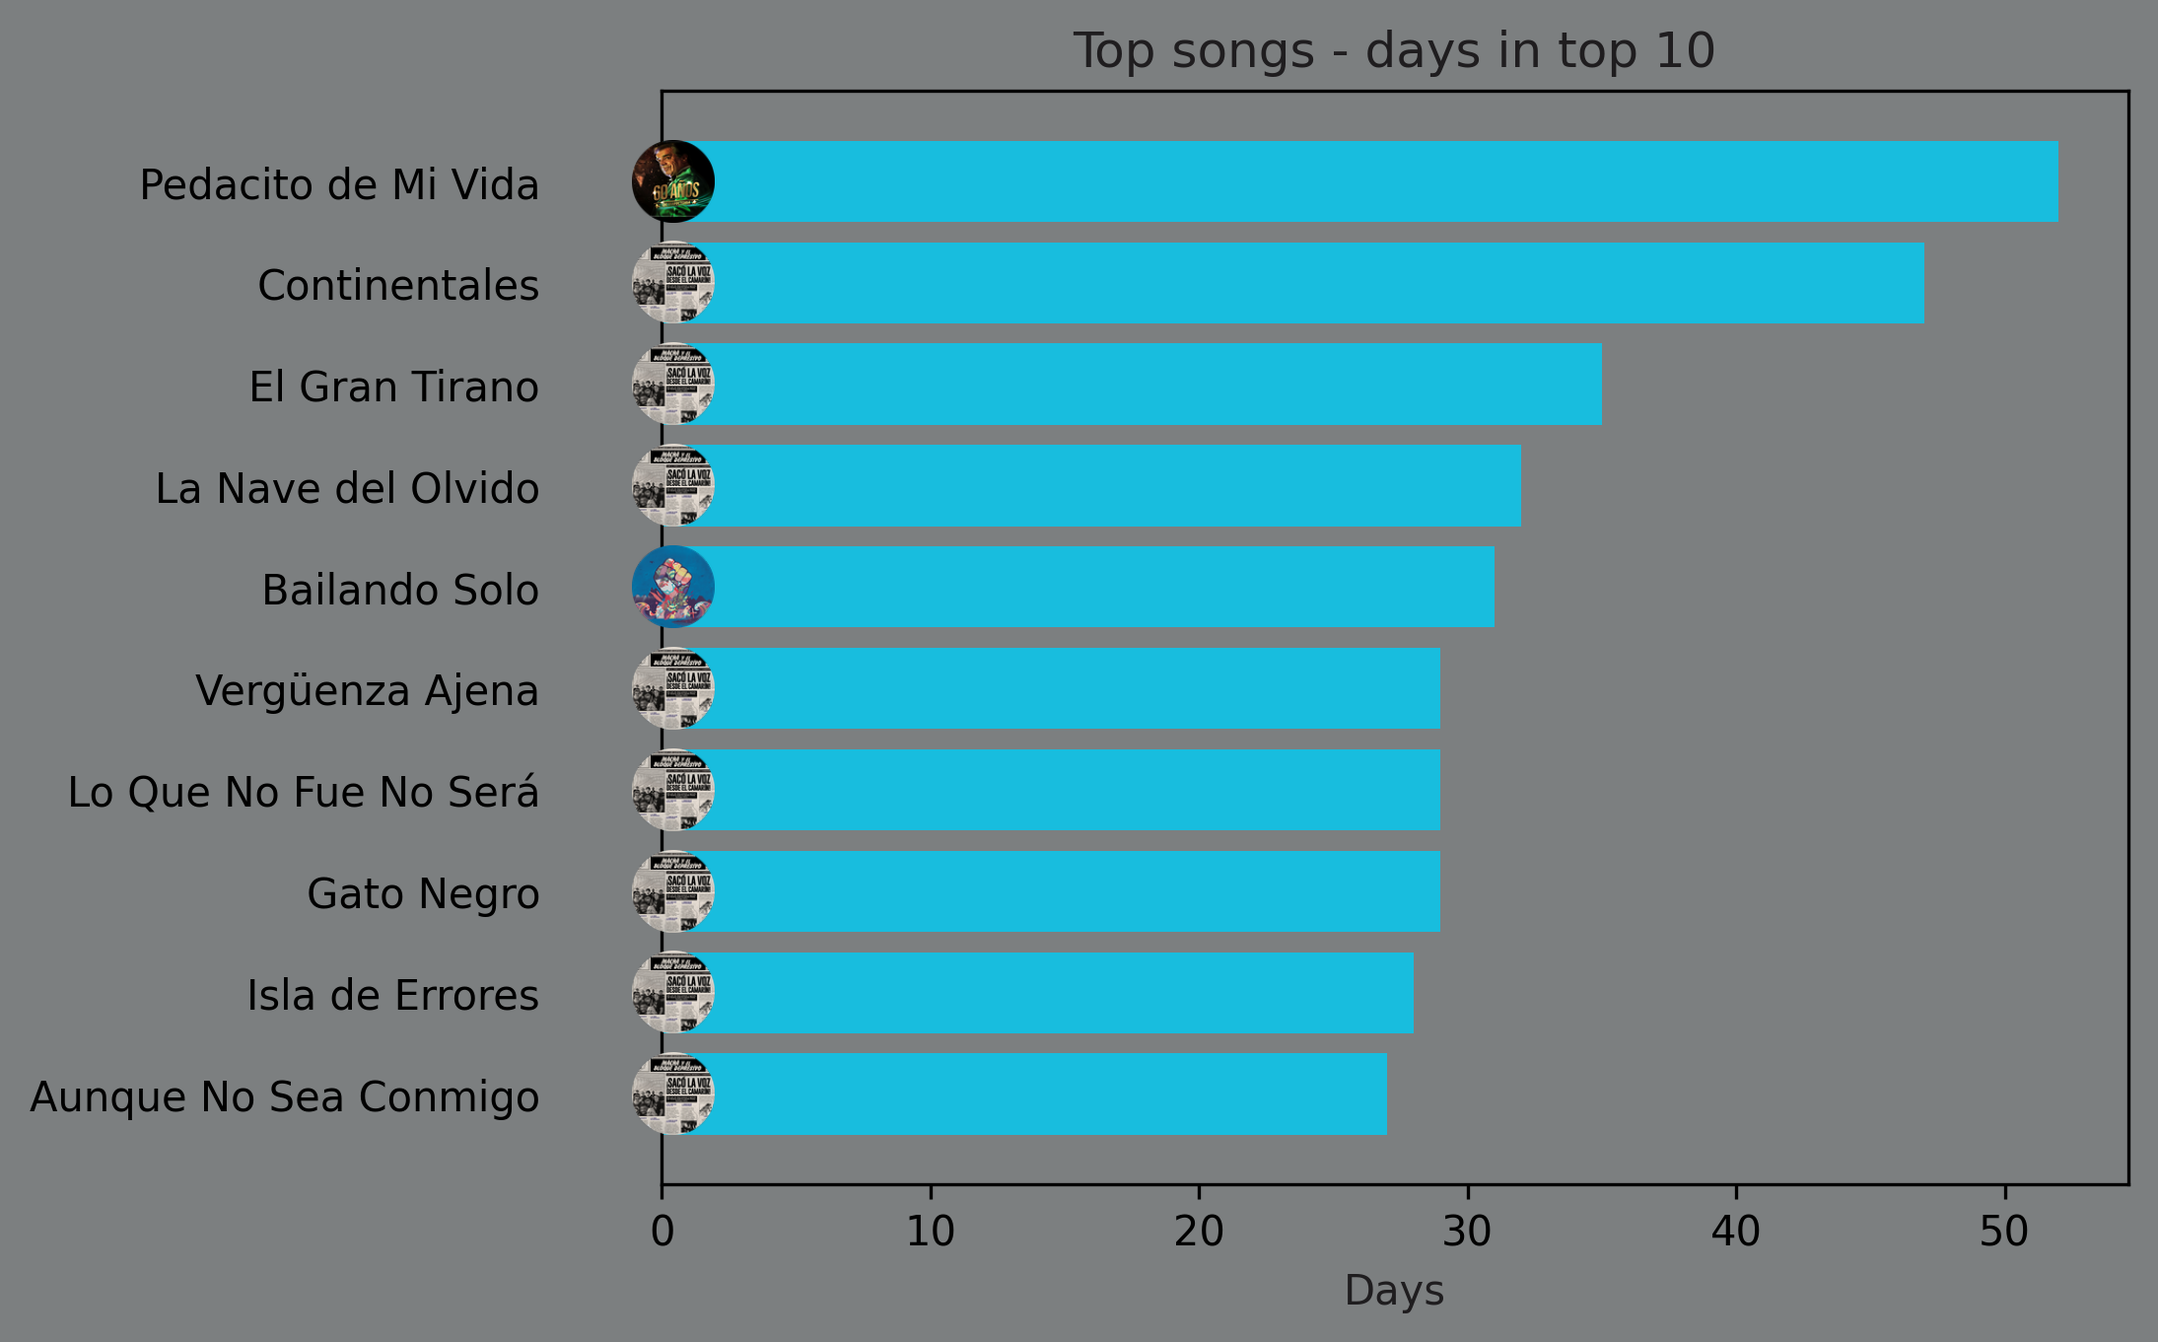
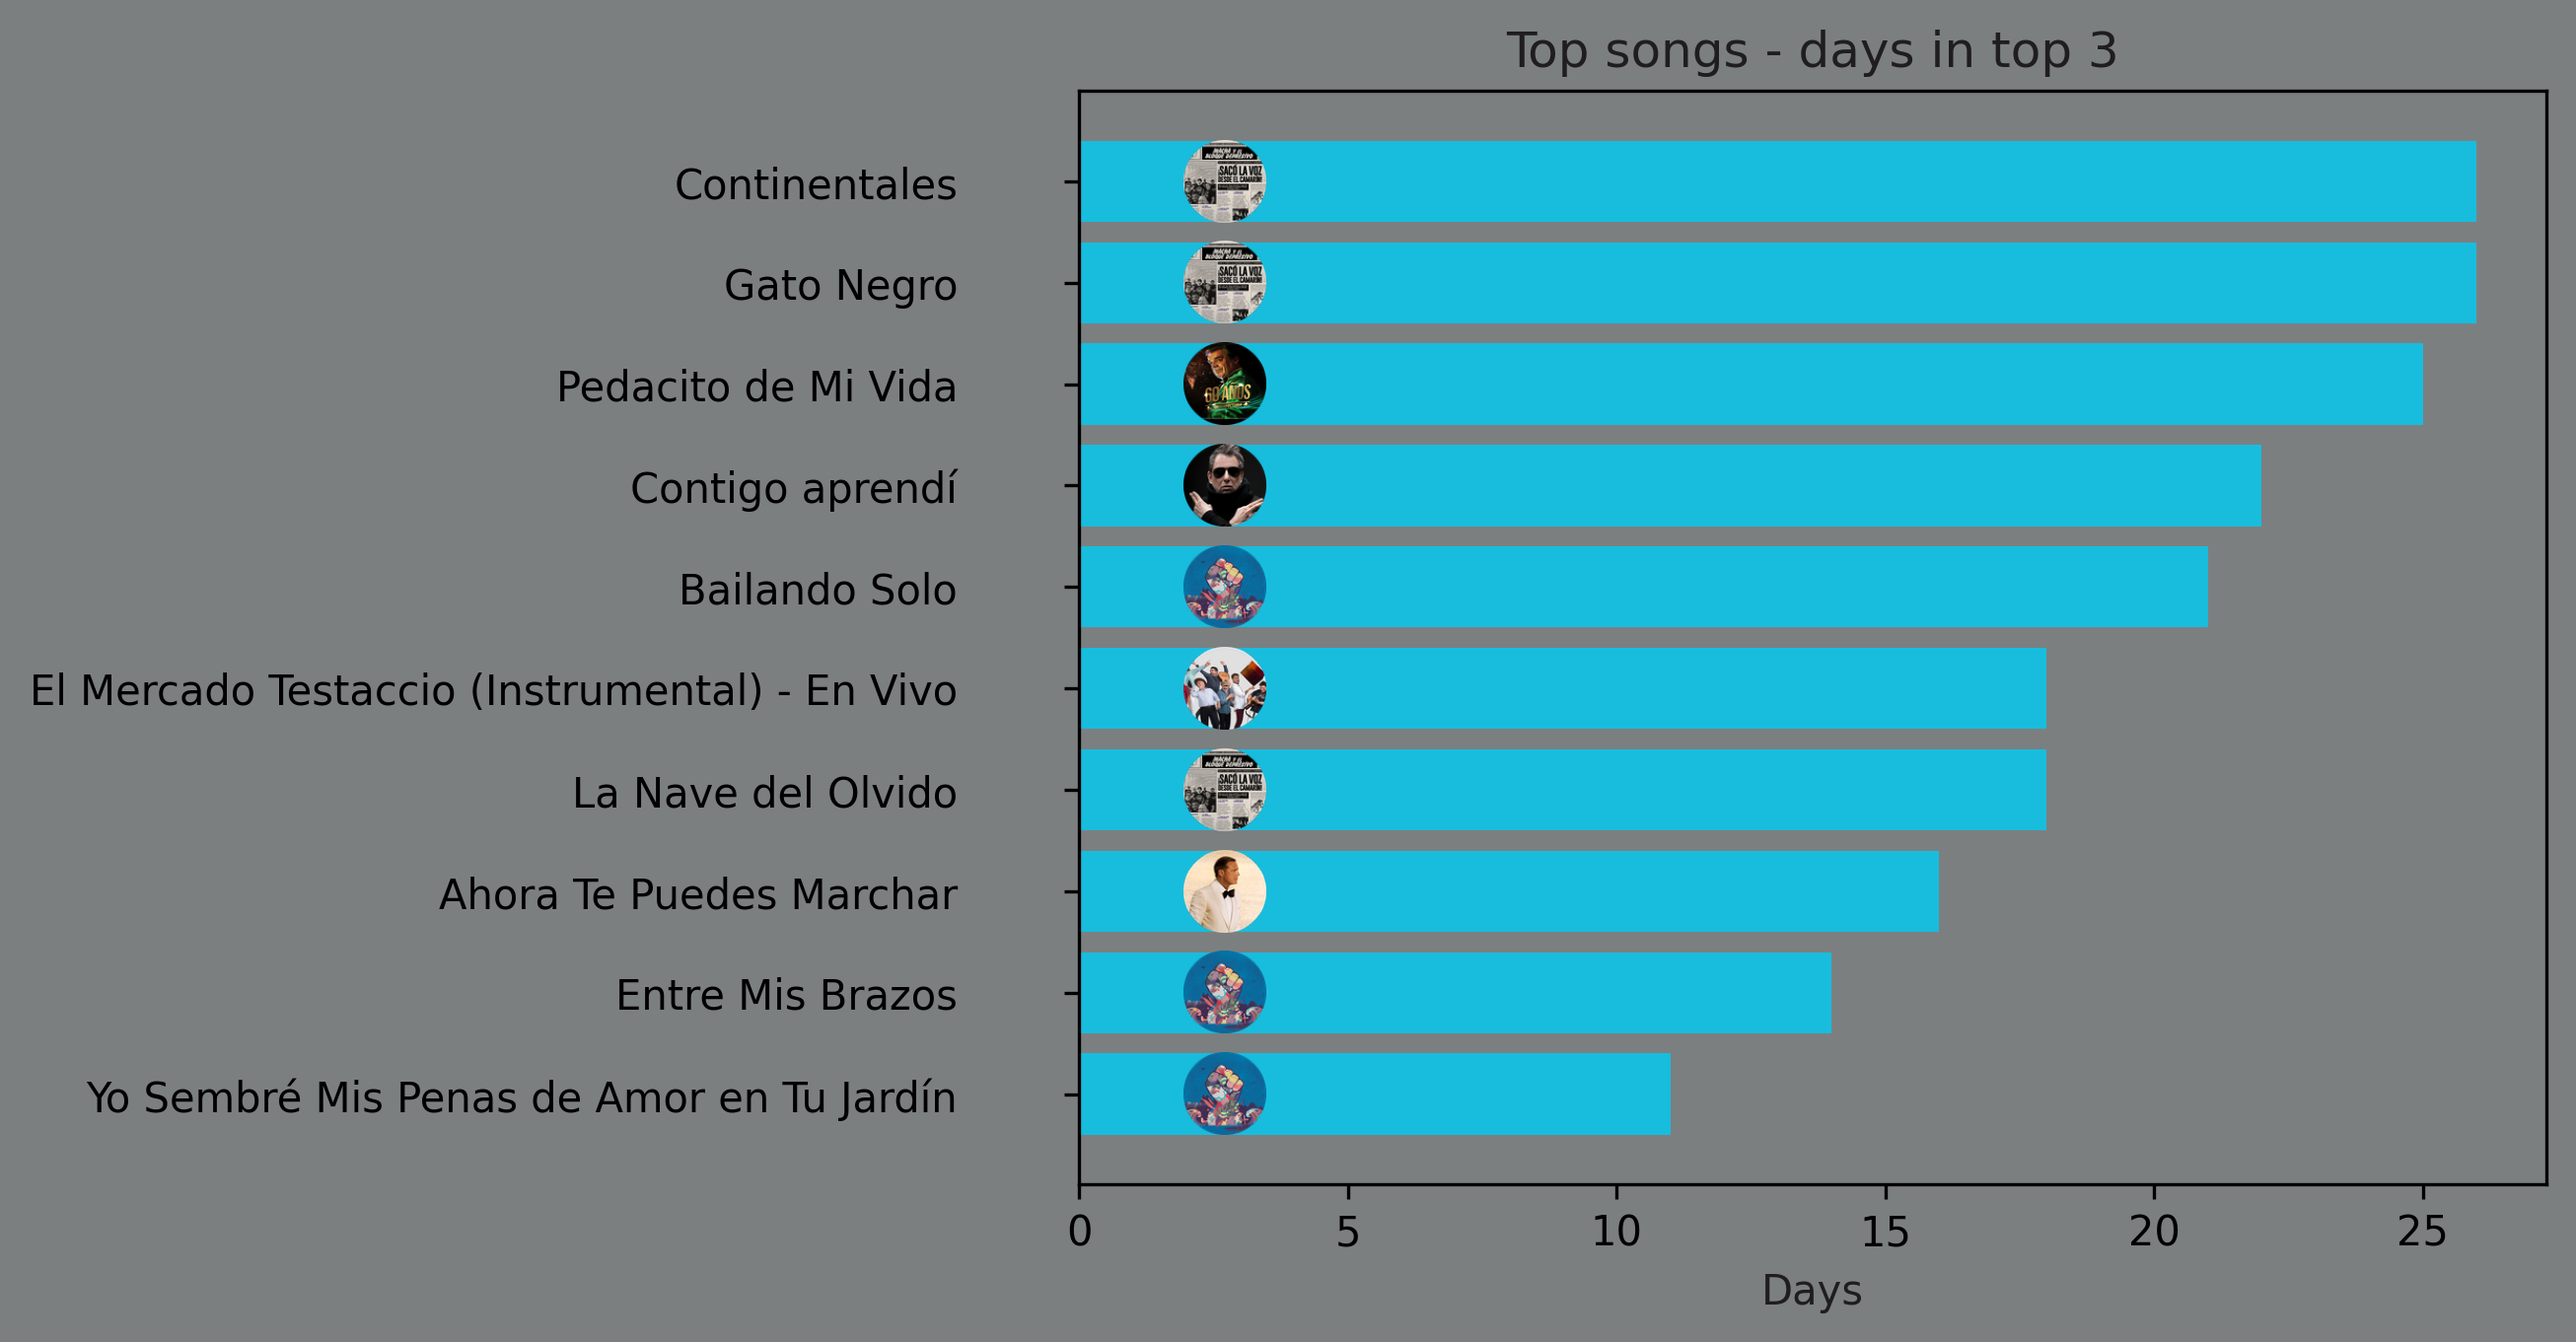
update: top 3 items

diff --git a/commands/plot_artists_days_in_top.py b/commands/plot_artists_days_in_top.py
@@ -4,6 +4,6 @@ from src.ranking_plotter import RankingImageGenerator
 if __name__ == "__main__":
     query = Queries_Manager().get_sql_script("plot_artist_days_in_top")
     RankingImageGenerator(
-        query, title="Top artists - days in top 10"
+        query, title="Top artists - days in top 3"
     ).save_ranking_image("ranking_artists.png")
 

diff --git a/commands/plot_tracks_days_in_top.py b/commands/plot_tracks_days_in_top.py
@@ -4,6 +4,6 @@ from src.ranking_plotter import RankingImageGenerator
 if __name__ == "__main__":
     query = Queries_Manager().get_sql_script("plot_tracks_days_in_top")
     RankingImageGenerator(
-        query, title="Top songs - days in top 10"
+        query, title="Top songs - days in top 3"
     ).save_ranking_image("ranking_songs.png")
 
